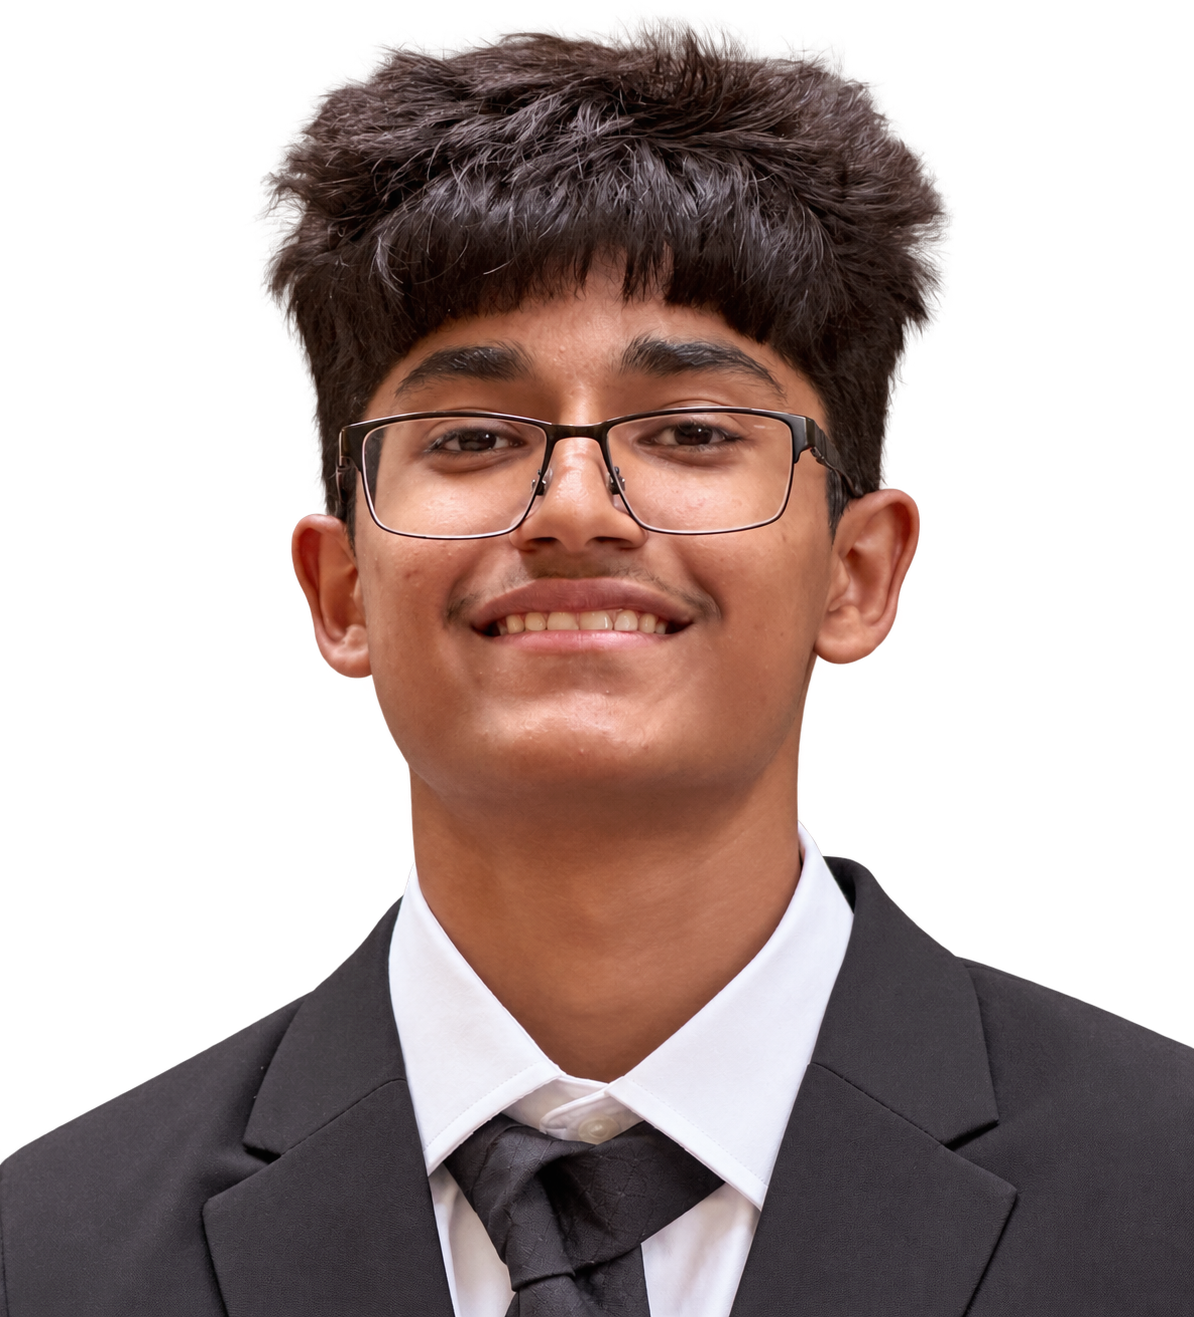
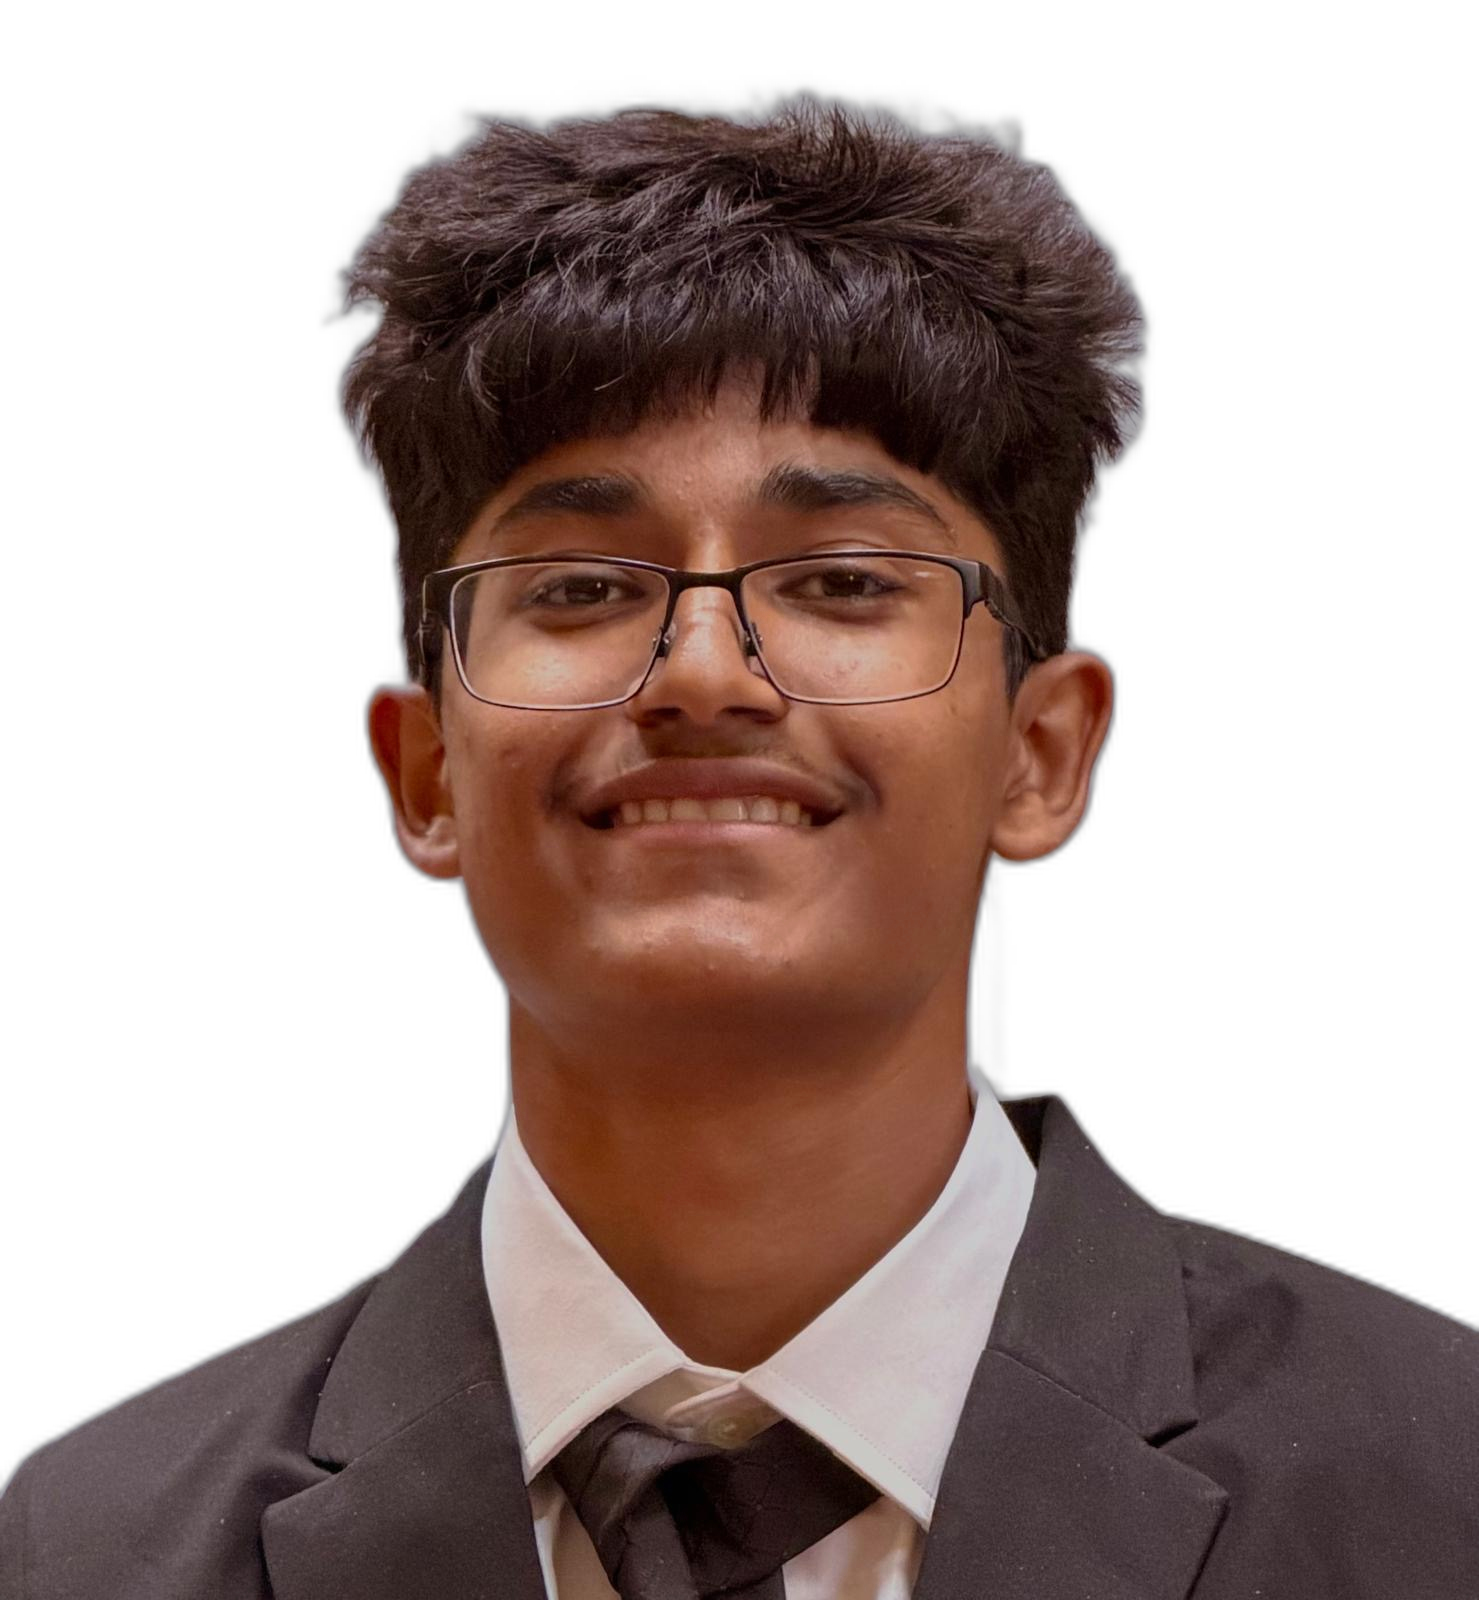
Fix homepage leadership cards and transparent portraits

diff --git a/src/app/page.tsx b/src/app/page.tsx
@@ -80,8 +80,8 @@ function LeadershipCard({
   body: string;
 }) {
   const imageBlock = (
-    <div className="relative flex min-h-[260px] items-end justify-center overflow-hidden rounded-3xl border border-deep-border bg-gradient-to-b from-deep-accent-soft via-deep-panel to-deep-panel2 p-4 sm:min-h-[320px]">
-      <div className="absolute inset-x-8 bottom-5 h-12 rounded-full bg-deep-border/60 blur-2xl" />
+    <div className="relative flex min-h-[260px] items-end justify-center overflow-hidden sm:min-h-[320px]">
+      <div className="absolute inset-x-12 bottom-4 h-10 rounded-full bg-deep-border/50 blur-2xl" />
       <Image
         src={imageSrc}
         alt={imageAlt}
@@ -93,7 +93,7 @@ function LeadershipCard({
   );
 
   const textBlock = (
-    <div className="card flex h-full flex-col justify-center p-8 sm:p-10">
+    <div className="flex h-full flex-col justify-center">
       <p className="mono text-[10px] font-semibold uppercase tracking-[0.18em] text-deep-accent">
         Leadership Note
       </p>
@@ -110,9 +110,19 @@ function LeadershipCard({
   );
 
   return (
-    <div className="grid gap-6 lg:grid-cols-[320px_minmax(0,1fr)] lg:items-stretch">
-      {imageSide === "left" ? imageBlock : textBlock}
-      {imageSide === "left" ? textBlock : imageBlock}
+    <div
+      className={`card overflow-hidden p-8 sm:p-10 lg:grid lg:items-center lg:gap-10 ${
+        imageSide === "left"
+          ? "lg:grid-cols-[280px_minmax(0,1fr)]"
+          : "lg:grid-cols-[minmax(0,1fr)_280px]"
+      }`}
+    >
+      <div className={imageSide === "left" ? "order-1" : "order-2"}>
+        {imageSide === "left" ? imageBlock : textBlock}
+      </div>
+      <div className={imageSide === "left" ? "order-2 mt-8 lg:mt-0" : "order-1 mt-8 lg:mt-0"}>
+        {imageSide === "left" ? textBlock : imageBlock}
+      </div>
     </div>
   );
 }
